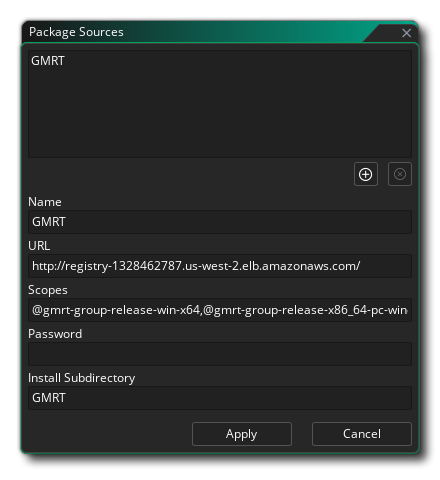
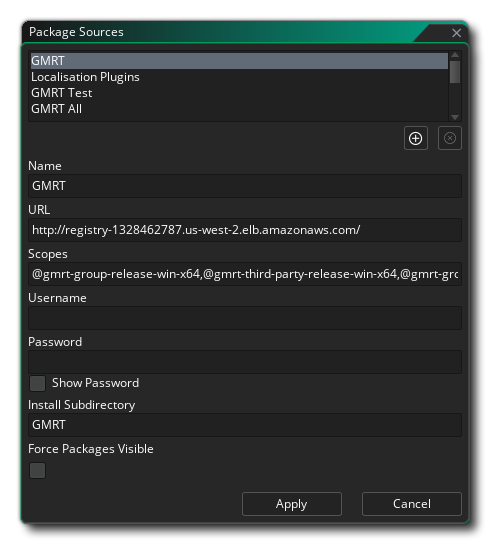
docs(feature): Update GMPM package source window https://github.com/YoYoGames/YoYoStudio/issues/11184

Changed region(s): [[0.0295, 0.0312, 1.0, 1.0]]

diff --git a/Manual/contents/IDE_Tools/Package_Manager.htm b/Manual/contents/IDE_Tools/Package_Manager.htm
@@ -25,7 +25,7 @@
   <p>You can click on <img class="icon" height="18" src="../assets/Images/Icons/Icon_AddArgument.png" width="18" /> next to the source drop-down to edit the list, which will show the following menu:</p>
   <p><img class="center" src="../assets/Images/IDE Tools/PackageManager_Sources.png" /></p>
   <p>This shows all the currently available package sources and you can click on a source to edit its details or remove it. You can click on the <img class="icon" height="18" src="../assets/Images/Icons/Icon_AddArgument.png" width="18" /> button to add a new source.</p>
-  <p>For each source you can define its name in the list, its URL, its scopes, a password and the install subdirectory (under the <a href="../Setting_Up_And_Version_Information/IDE_Preferences/Package_Manager_Preferences.htm">Package Manager path</a>).</p>
+  <p>For each source you can define its name in the list, its URL, its scopes, a username/password and the install subdirectory (under the <a href="../Setting_Up_And_Version_Information/IDE_Preferences/Package_Manager_Preferences.htm">Package Manager path</a>). You can also force all packages to be visible if the registry contains any hidden packages.</p>
   <p> </p>
   <p> </p>
   <div class="footer">
